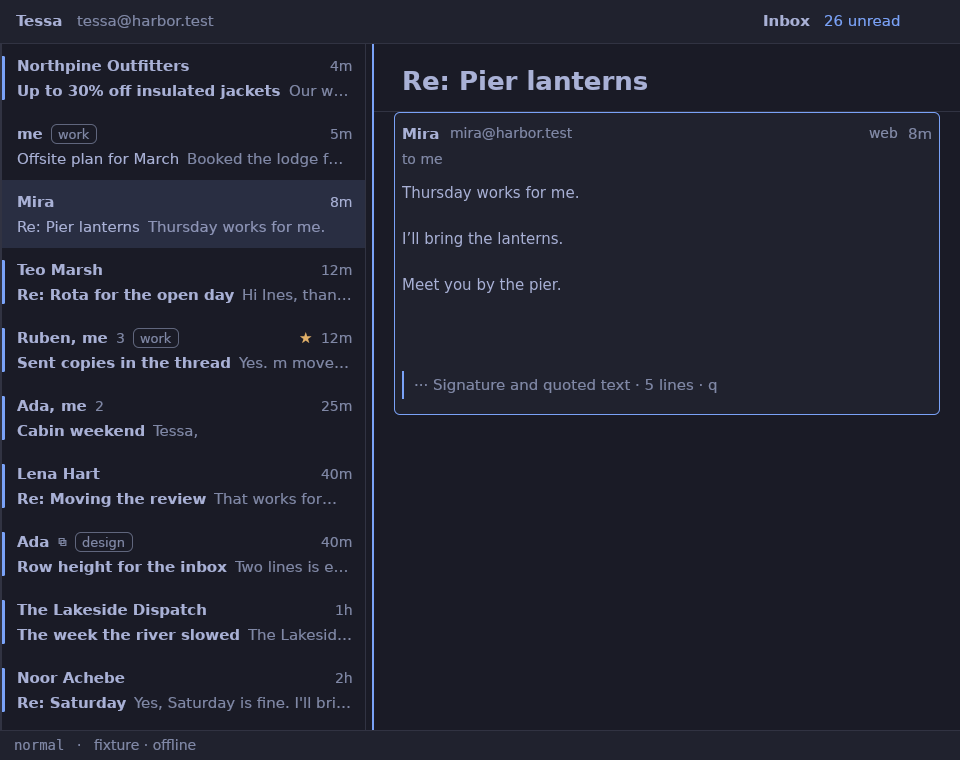
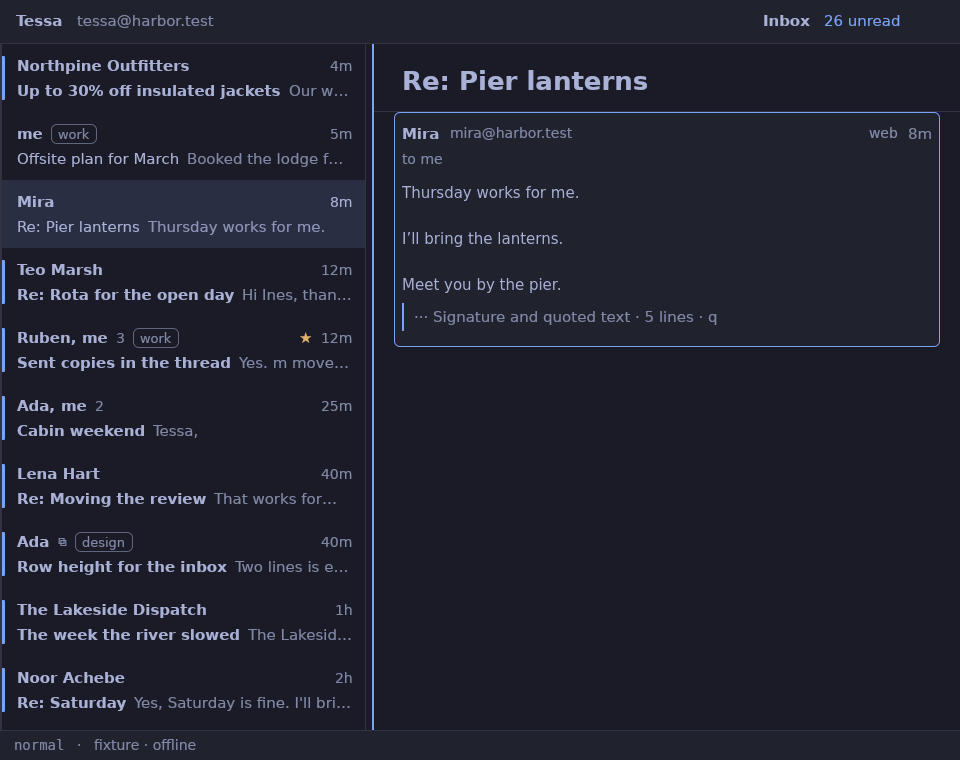
Verify Gmail reply geometry in both reader views

diff --git a/309-r17/README.md b/309-r17/README.md
@@ -2,9 +2,22 @@
 
 ## Switching views with `w`
 
-The built-in **Re: Pier lanterns** mail was opened in a nested 960 × 760 Sway session. Each
-lossless capture contains simple → web → simple. The 60 Hz files include both settled
-states and the wait for the first WebKit snapshot.
+The built-in **Re: Pier lanterns** mail was captured in nested Sway at 960 × 760
+and 490 × 760. Fold-row y is the top of its vertical rule. Card-bottom y is the
+first background pixel below the card. Both coordinates match exactly across
+simple and web view.
+
+| Window width | Theme | Simple | Web | Fold-row y in both | Card-bottom y in both |
+| --- | --- | --- | --- | --- | --- |
+| 960 px | Tokyo Night | [PNG](ink-dark-simple.png) | [PNG](ink-dark-web.png) | 303 px | 347 px |
+| 960 px | Catppuccin Latte | [PNG](ink-light-simple.png) | [PNG](ink-light-web.png) | 303 px | 347 px |
+| 490 px | Tokyo Night | [PNG](ink-dark-simple-490.png) | [PNG](ink-dark-web-490.png) | 303 px | 347 px |
+| 490 px | Catppuccin Latte | [PNG](ink-light-simple-490.png) | [PNG](ink-light-web-490.png) | 303 px | 347 px |
+
+### Motion recordings from round 17
+
+Each 960 × 760 lossless capture contains simple → web → simple. The 60 Hz
+files include both settled states and the wait for the first WebKit snapshot.
 
 Ink is the sum of absolute RGB luma differences from the card fill over the same
 224 × 120 px crop of the three open reply lines. The floor is 97% of the weaker
@@ -14,10 +27,10 @@ ink during the fades.
 
 ![Per-frame ink for Tokyo Night and Catppuccin Latte](ink-per-frame.png)
 
-| Theme | Simple | Web | Recording | Frame data |
-| --- | --- | --- | --- | --- |
-| Tokyo Night | [PNG](ink-dark-simple.png) | [PNG](ink-dark-web.png) | [MP4](ink-dark.mp4) | [CSV](ink-dark.csv) |
-| Catppuccin Latte | [PNG](ink-light-simple.png) | [PNG](ink-light-web.png) | [MP4](ink-light.mp4) | [CSV](ink-light.csv) |
+| Theme | Recording | Frame data |
+| --- | --- | --- |
+| Tokyo Night | [MP4](ink-dark.mp4) | [CSV](ink-dark.csv) |
+| Catppuccin Latte | [MP4](ink-light.mp4) | [CSV](ink-light.csv) |
 
 [Round 16 captures](../309-r16/README.md)
 
